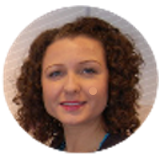
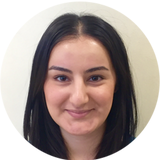
Updating the staff info to show Ozlem

diff --git a/queuetimers/static/css/circles.css b/queuetimers/static/css/circles.css
@@ -1,0 +1,42 @@
+div.timer {
+	width: 33%;
+	height: 400px;
+	float: left;
+}
+
+div#container {
+	overflow: auto;
+	width: 100%
+}
+
+body {
+	text-align: center;
+}
+
+h2 {
+	font-size: 50px;
+	font-family: "Expert-Extra-Light";
+	margin-bottom: 0px;
+	margin-top: 0px;
+}
+
+h2.dark {
+	color: #00395D;
+}
+
+h2.light {
+	color: #00AEEF;
+}
+
+h2#page-title {
+	margin-left: 100px;
+	text-align: left;
+	margin-top: 60px;
+	margin-bottom: 80px;
+	color: #00AEEF;
+}
+
+img {
+	margin-top: 40px;
+
+}

diff --git a/queuetimers/templates/numbers.html b/queuetimers/templates/numbers.html
@@ -28,7 +28,7 @@
 		<div id="footer">
 			<img src="/static/images/face.png" />
 			<h3>Start mobile banking today</h3>
-			<p>Speak to Kate to get started here in just 5 minutes</p>
+			<p>Speak to Ozlem to get started here in just 5 minutes</p>
 		</div>
 
 

diff --git a/queuetimers/templates/shapes.html b/queuetimers/templates/shapes.html
@@ -28,7 +28,7 @@
 		<div id="footer">
 			<img src="/static/images/face.png" />
 			<h3>Start mobile banking today</h3>
-			<p>Speak to Kate to get started here in just 5 minutes</p>
+			<p>Speak to Ozlem to get started here in just 5 minutes</p>
 		</div>
 
 
